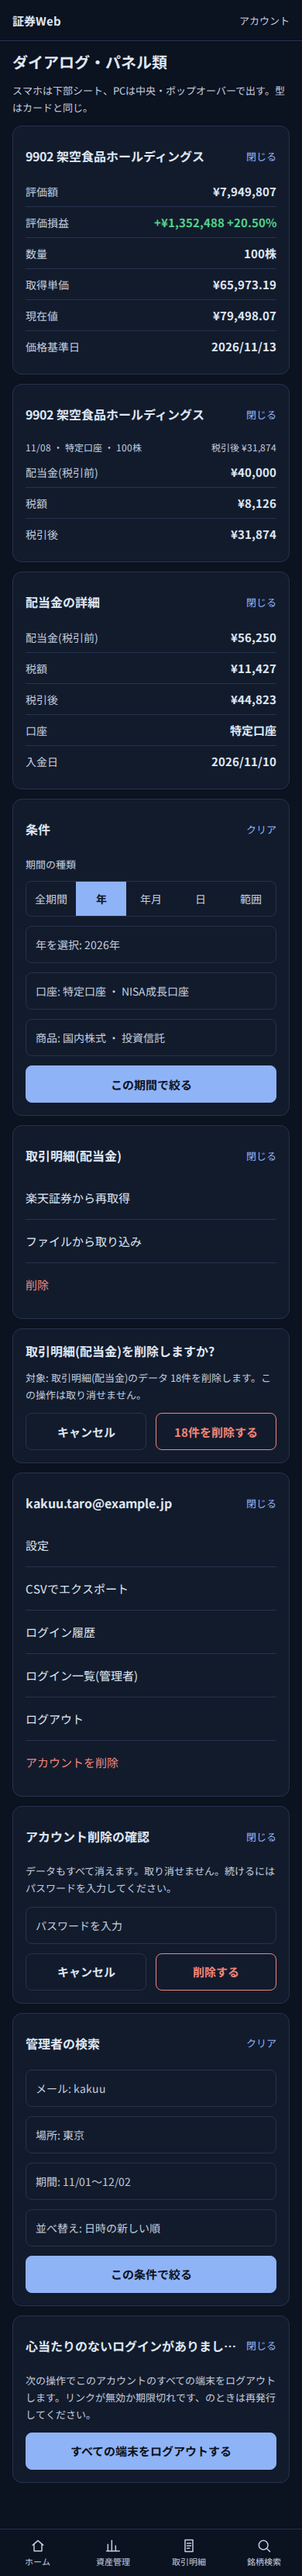
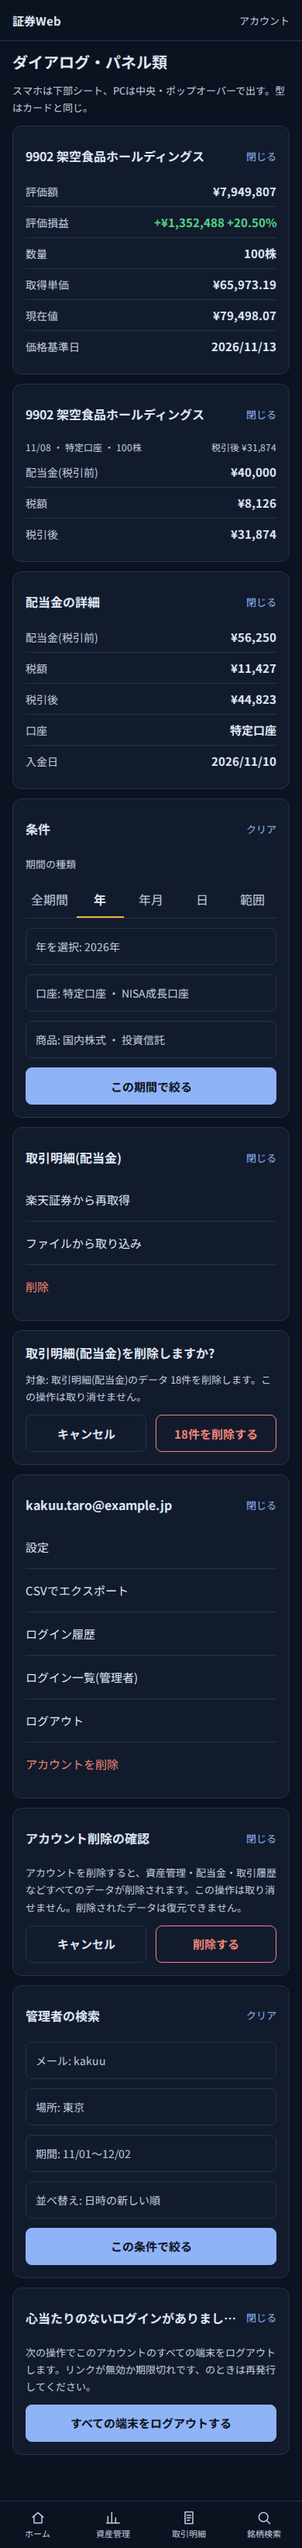
design: rest担当の指摘5件を修正(戻り削除・塗り廃止・札廃止・削除確認現行合わせ・OSダーク確認) Refs #1890

diff --git a/docs/design/work/phase9-screens/rest/settings-pc.html b/docs/design/work/phase9-screens/rest/settings-pc.html
@@ -137,8 +137,14 @@ table.grid .sb{font-size:12px; color:var(--mut); white-space:nowrap}
     <div class="col">
 <section class="card" aria-label="設定セクション">
     <div class="hrow"><h2>設定セクション</h2></div>
-    <div class="toc">
-      <span class="chip">アカウント</span><span class="chip">表示</span><span class="chip">データ</span><span class="chip">セキュリティ</span><span class="chip">登録した端末</span><span class="chip">ログイン履歴</span><span class="chip">危険な操作</span>
+    <div class="rows">
+      <div class="row"><div class="left"><div class="name" style="color:var(--accent)">アカウント</div></div></div>
+      <div class="row"><div class="left"><div class="name" style="color:var(--accent)">表示</div></div></div>
+      <div class="row"><div class="left"><div class="name" style="color:var(--accent)">データ</div></div></div>
+      <div class="row"><div class="left"><div class="name" style="color:var(--accent)">セキュリティ</div></div></div>
+      <div class="row"><div class="left"><div class="name" style="color:var(--accent)">登録した端末</div></div></div>
+      <div class="row"><div class="left"><div class="name" style="color:var(--accent)">ログイン履歴</div></div></div>
+      <div class="row"><div class="left"><div class="name" style="color:var(--accent)">危険な操作</div></div></div>
     </div>
   </section>
     </div>
@@ -157,7 +163,6 @@ table.grid .sb{font-size:12px; color:var(--mut); white-space:nowrap}
       <div class="dl"><dt>取引明細の初期タブ</dt><dd>配当金</dd></div>
       <div class="dl"><dt>金額の表示単位</dt><dd>円</dd></div>
     </dl>
-    <div class="seg" role="group" aria-label="テーマ"><span class="here">端末に合わせる</span><span>ライト</span><span>ダーク</span></div>
   </section>
 <section class="card" aria-label="データ">
     <div class="hrow"><h2>データ</h2></div>
@@ -190,9 +195,9 @@ table.grid .sb{font-size:12px; color:var(--mut); white-space:nowrap}
 <section class="card" aria-label="ログイン履歴">
     <div class="hrow"><h2>ログイン履歴</h2><span class="more">もっと見る ›</span></div>
     <div class="rows">
-      <div class="row"><div class="left"><div class="name">kakuu.taro@example.jp</div><span class="sub num">12/02 09:12 ・ 東京 ・ 成功</span></div><span class="amt"><span class="badge ok">成功</span></span></div>
-      <div class="row"><div class="left"><div class="name">kakuu.taro@example.jp</div><span class="sub num">11/28 18:04 ・ 大阪 ・ 新しい端末</span></div><span class="amt"><span class="badge">新しい端末</span></span></div>
-      <div class="row"><div class="left"><div class="name">kakuu.taro@example.jp</div><span class="sub num">11/10 07:55 ・ 東京 ・ 失敗</span></div><span class="amt"><span class="badge ng">失敗</span></span></div>
+      <div class="row"><div class="left"><div class="name">kakuu.taro@example.jp</div><span class="sub num">12/02 09:12 ・ 東京 ・ 成功</span></div></div>
+      <div class="row"><div class="left"><div class="name">kakuu.taro@example.jp</div><span class="sub num">11/28 18:04 ・ 大阪 ・ 新しい端末</span></div></div>
+      <div class="row"><div class="left"><div class="name">kakuu.taro@example.jp</div><span class="sub num">11/10 07:55 ・ 東京 ・ <span style="color:var(--down)">失敗</span></span></div></div>
     </div>
     <div class="statenote-wrap">Cookie を消すと同じ端末でも新しい端末として登録されます</div>
   </section>

diff --git a/docs/design/work/phase9-screens/rest/settings-mobile.html b/docs/design/work/phase9-screens/rest/settings-mobile.html
@@ -121,8 +121,14 @@ table.grid{width:100%}
   <h1 class="pagetitle" style="margin-top:12px">設定</h1>
 <section class="card" aria-label="設定セクション">
     <div class="hrow"><h2>設定セクション</h2></div>
-    <div class="toc">
-      <span class="chip">アカウント</span><span class="chip">表示</span><span class="chip">データ</span><span class="chip">セキュリティ</span><span class="chip">登録した端末</span><span class="chip">ログイン履歴</span><span class="chip">危険な操作</span>
+    <div class="rows">
+      <div class="row"><div class="left"><div class="name" style="color:var(--accent)">アカウント</div></div></div>
+      <div class="row"><div class="left"><div class="name" style="color:var(--accent)">表示</div></div></div>
+      <div class="row"><div class="left"><div class="name" style="color:var(--accent)">データ</div></div></div>
+      <div class="row"><div class="left"><div class="name" style="color:var(--accent)">セキュリティ</div></div></div>
+      <div class="row"><div class="left"><div class="name" style="color:var(--accent)">登録した端末</div></div></div>
+      <div class="row"><div class="left"><div class="name" style="color:var(--accent)">ログイン履歴</div></div></div>
+      <div class="row"><div class="left"><div class="name" style="color:var(--accent)">危険な操作</div></div></div>
     </div>
   </section>
   <section class="card" aria-label="アカウント">
@@ -139,7 +145,6 @@ table.grid{width:100%}
       <div class="dl"><dt>取引明細の初期タブ</dt><dd>配当金</dd></div>
       <div class="dl"><dt>金額の表示単位</dt><dd>円</dd></div>
     </dl>
-    <div class="seg" role="group" aria-label="テーマ"><span class="here">端末に合わせる</span><span>ライト</span><span>ダーク</span></div>
   </section>
   <section class="card" aria-label="データ">
     <div class="hrow"><h2>データ</h2></div>
@@ -168,9 +173,9 @@ table.grid{width:100%}
   <section class="card" aria-label="ログイン履歴">
     <div class="hrow"><h2>ログイン履歴</h2><span class="more">もっと見る ›</span></div>
     <div class="rows">
-      <div class="row"><div class="left"><div class="name">kakuu.taro@example.jp</div><span class="sub num">12/02 09:12 ・ 東京 ・ 成功</span></div><span class="amt"><span class="badge ok">成功</span></span></div>
-      <div class="row"><div class="left"><div class="name">kakuu.taro@example.jp</div><span class="sub num">11/28 18:04 ・ 大阪 ・ 新しい端末</span></div><span class="amt"><span class="badge">新しい端末</span></span></div>
-      <div class="row"><div class="left"><div class="name">kakuu.taro@example.jp</div><span class="sub num">11/10 07:55 ・ 東京 ・ 失敗</span></div><span class="amt"><span class="badge ng">失敗</span></span></div>
+      <div class="row"><div class="left"><div class="name">kakuu.taro@example.jp</div><span class="sub num">12/02 09:12 ・ 東京 ・ 成功</span></div></div>
+      <div class="row"><div class="left"><div class="name">kakuu.taro@example.jp</div><span class="sub num">11/28 18:04 ・ 大阪 ・ 新しい端末</span></div></div>
+      <div class="row"><div class="left"><div class="name">kakuu.taro@example.jp</div><span class="sub num">11/10 07:55 ・ 東京 ・ <span style="color:var(--down)">失敗</span></span></div></div>
     </div>
     <div class="statenote-wrap">Cookie を消すと同じ端末でも新しい端末として登録されます</div>
   </section>

diff --git a/docs/design/work/phase9-screens/rest/dialogs-mobile.html b/docs/design/work/phase9-screens/rest/dialogs-mobile.html
@@ -153,7 +153,7 @@ table.grid{width:100%}
   <section class="card" aria-label="検索・条件追加パネル">
     <div class="hrow"><h2>条件</h2><span class="more">クリア</span></div>
     <p class="subhead">期間の種類</p>
-    <div class="seg" role="group" aria-label="期間"><span>全期間</span><span class="here">年</span><span>年月</span><span>日</span><span>範囲</span></div>
+    <div class="tabs" role="group" aria-label="期間"><span>全期間</span><span class="here">年</span><span>年月</span><span>日</span><span>範囲</span></div>
     <div class="field">年を選択: 2026年</div>
     <div class="field">口座: 特定口座 ・ NISA成長口座</div>
     <div class="field">商品: 国内株式 ・ 投資信託</div>
@@ -188,8 +188,7 @@ table.grid{width:100%}
   </section>
   <section class="card" aria-label="アカウント削除確認">
     <div class="hrow"><h2>アカウント削除の確認</h2><span class="more">閉じる</span></div>
-    <p class="statenote-wrap">データもすべて消えます。取り消せません。続けるにはパスワードを入力してください。</p>
-    <div class="field">パスワードを入力</div>
+    <p class="statenote-wrap">アカウントを削除すると、資産管理・配当金・取引履歴などすべてのデータが削除されます。この操作は取り消せません。削除されたデータは復元できません。</p>
     <div style="display:flex; gap:12px; margin-top:12px">
       <div class="btn" style="flex:1">キャンセル</div>
       <div class="btn danger" style="flex:1">削除する</div>
@@ -199,13 +198,12 @@ table.grid{width:100%}
     <div class="hrow"><h2>管理者の検索</h2><span class="more">クリア</span></div>
     <div class="field">メール: kakuu</div>
     <div class="field">場所: 東京</div>
-    <div class="field">期間: 11/01〜12/02</div>
     <div class="field">並べ替え: 日時の新しい順</div>
     <div class="btn primary" style="margin-top:12px">この条件で絞る</div>
   </section>
   <section class="card" aria-label="通知リンクのログアウト確認">
     <div class="hrow"><h2>心当たりのないログインがありましたか</h2><span class="more">閉じる</span></div>
-    <p class="statenote-wrap">次の操作でこのアカウントのすべての端末をログアウトします。リンクが無効か期限切れです、のときは再発行してください。</p>
+    <p class="statenote-wrap">次の操作でこのアカウントのすべての端末をログアウトします。</p>
     <div class="btn primary" style="margin-top:12px">すべての端末をログアウトする</div>
   </section><nav class="bottomnav" aria-label="下ナビ">
   <a href="#"><svg width="20" height="20" viewBox="0 0 24 24" fill="none" stroke="currentColor" stroke-width="1.8" stroke-linecap="round" stroke-linejoin="round"><path d="M4 11l8-7 8 7"/><path d="M6 10v10h12V10"/></svg>ホーム</a>

diff --git a/docs/design/work/phase9-screens/rest/dialogs-pc.html b/docs/design/work/phase9-screens/rest/dialogs-pc.html
@@ -169,7 +169,7 @@ table.grid .sb{font-size:12px; color:var(--mut); white-space:nowrap}
 <section class="card" aria-label="検索・条件追加パネル">
     <div class="hrow"><h2>条件</h2><span class="more">クリア</span></div>
     <p class="subhead">期間の種類</p>
-    <div class="seg" role="group" aria-label="期間"><span>全期間</span><span class="here">年</span><span>年月</span><span>日</span><span>範囲</span></div>
+    <div class="tabs" role="group" aria-label="期間"><span>全期間</span><span class="here">年</span><span>年月</span><span>日</span><span>範囲</span></div>
     <div class="field">年を選択: 2026年</div>
     <div class="field">口座: 特定口座 ・ NISA成長口座</div>
     <div class="field">商品: 国内株式 ・ 投資信託</div>
@@ -206,8 +206,7 @@ table.grid .sb{font-size:12px; color:var(--mut); white-space:nowrap}
   </section>
 <section class="card" aria-label="アカウント削除確認">
     <div class="hrow"><h2>アカウント削除の確認</h2><span class="more">閉じる</span></div>
-    <p class="statenote-wrap">データもすべて消えます。取り消せません。続けるにはパスワードを入力してください。</p>
-    <div class="field">パスワードを入力</div>
+    <p class="statenote-wrap">アカウントを削除すると、資産管理・配当金・取引履歴などすべてのデータが削除されます。この操作は取り消せません。削除されたデータは復元できません。</p>
     <div style="display:flex; gap:12px; margin-top:12px">
       <div class="btn" style="flex:1">キャンセル</div>
       <div class="btn danger" style="flex:1">削除する</div>
@@ -217,13 +216,12 @@ table.grid .sb{font-size:12px; color:var(--mut); white-space:nowrap}
     <div class="hrow"><h2>管理者の検索</h2><span class="more">クリア</span></div>
     <div class="field">メール: kakuu</div>
     <div class="field">場所: 東京</div>
-    <div class="field">期間: 11/01〜12/02</div>
     <div class="field">並べ替え: 日時の新しい順</div>
     <div class="btn primary" style="margin-top:12px">この条件で絞る</div>
   </section>
 <section class="card" aria-label="通知リンクのログアウト確認">
     <div class="hrow"><h2>心当たりのないログインがありましたか</h2><span class="more">閉じる</span></div>
-    <p class="statenote-wrap">次の操作でこのアカウントのすべての端末をログアウトします。リンクが無効か期限切れです、のときは再発行してください。</p>
+    <p class="statenote-wrap">次の操作でこのアカウントのすべての端末をログアウトします。</p>
     <div class="btn primary" style="margin-top:12px">すべての端末をログアウトする</div>
   </section>
     </div>

diff --git a/docs/design/work/phase9-screens/rest/search-mobile.html b/docs/design/work/phase9-screens/rest/search-mobile.html
@@ -118,8 +118,7 @@ table.grid{width:100%}
 </div></header>
 <div class="wrap">
 
-  <a class="backlink" href="#">‹ 資産管理に戻る</a>
-  <h1 class="pagetitle">銘柄検索</h1>
+  <h1 class="pagetitle" style="margin-top:12px">銘柄検索</h1>
 <div class="search"><span aria-hidden="true">⌕</span><span class="ph">銘柄コードまたは銘柄名で検索</span></div>
   <div class="btn primary" style="margin-top:8px">銘柄を検索</div>
   <section class="card" aria-label="保有情報">

diff --git a/docs/design/work/phase9-screens/rest/admin-logins-pc.html b/docs/design/work/phase9-screens/rest/admin-logins-pc.html
@@ -150,7 +150,6 @@ table.grid .sb{font-size:12px; color:var(--mut); white-space:nowrap}
         <div class="hrow"><h2>条件</h2><span class="more">クリア</span></div>
         <div class="field">メール: kakuu</div>
         <div class="field">場所: 東京</div>
-        <div class="field">期間: 11/01〜12/02</div>
         <div class="field">並べ替え: 日時の新しい順</div>
         <div class="btn primary" style="margin-top:12px">この条件で絞る</div>
       </section>

diff --git a/docs/design/work/phase9-screens/rest/search-pc.html b/docs/design/work/phase9-screens/rest/search-pc.html
@@ -132,8 +132,7 @@ table.grid .sb{font-size:12px; color:var(--mut); white-space:nowrap}
 </div></header>
 <div class="wrap">
 
-  <a class="backlink" href="#">‹ 資産管理に戻る</a>
-  <h1 class="pagetitle">銘柄検索</h1>
+  <h1 class="pagetitle" style="margin-top:12px">銘柄検索</h1>
   <div class="grid2" style="margin-top:12px">
     <div class="col">
       <section class="card" aria-label="検索">

diff --git a/docs/design/work/phase9-screens/rest/README.md b/docs/design/work/phase9-screens/rest/README.md
@@ -19,15 +19,15 @@
 
 銘柄検索3点:
 
-1. 検索欄をカード化し、実行ボタンを「銘柄を検索」1つにした(スマホ・PC共通の部品)。結果は保有情報→銘柄詳細→外部リンクの順に積んだ。
+1. 検索欄をカード化し、実行ボタンを「銘柄を検索」1つにした(スマホ・PC共通の部品)。結果は保有情報→銘柄詳細→外部リンクの順に積んだ。「資産管理に戻る」の戻りは主画面の見本からは外し、現行どおり保有ありで資産管理の行から来たときだけ出す。
 2. 保有タイルの羅列をやめ、左=項目名(灰)・右=値(太字)の定義行カードにした。口座別はホームと同じ行の型にした。
 3. 外部リンク11件(現行の11件をすべて残す)を同じボタンの見た目にし、スマホ2列・PC4列にした。
 
 設定3点:
 
-1. 7セクションをホームと同じ白カードにし、スマホは縦積み+目次のチップ、PCは左目次+2列にした。赤枠・赤背景は使わず、危険操作の「削除…」だけ赤文字にした。
-2. テーマ・自動ログアウトを全画面共通の segmented(選択肢)部品にし、値は定義行(左=項目名・右=値)で出した。
-3. 端末・履歴は行の型(左=名前+補足、右=操作・バッジ)にし、バッジは成功=緑・失敗=赤・それ以外=灰の線だけにした。
+1. 7セクションをホームと同じ白カードにし、スマホは行の型の目次+縦積み、PCは左目次+2列にした。目次は色札(チップ)をやめ青文字のリンクの並びにした。赤枠・赤背景は使わず、危険操作の「削除…」だけ赤文字にした。
+2. テーマ・自動ログアウトは塗りの切り替えをやめ、他の行と同じ定義行(左=項目名・右=値)にした。面を紺で塗るのは主ボタンだけにした。
+3. 端末・履歴は行の型(左=名前+補足、右=操作)にし、結果の札はやめて2段目の文字にした(失敗だけ赤文字)。
 
 ログイン・未ログイン時のホーム・404(3点):
 
@@ -43,9 +43,9 @@
 
 ダイアログ・パネル類3点:
 
-1. 9種+通知リンクの確認をすべて同じカード型(見出し+右に「閉じる/クリア」→定義行・行・ボタン)にした。スマホ=下部シート・PC=中央・ポップオーバー・右パネルの出し分けは注記にした。
+1. 9種+通知リンクの確認をすべて同じカード型(見出し+右に「閉じる/クリア」→定義行・行・ボタン)にした。期間の種類は塗りの切り替えをやめ下線のタブにした。スマホ=下部シート・PC=中央・ポップオーバー・右パネルの出し分けは注記にした。
 2. 削除確認は対象・件数・「この操作は取り消せません」を明示し、実行ボタンに件数(18件を削除する)を載せた。
-3. アカウントメニューは現行の6項目(設定・データをエクスポート・ログイン履歴・管理者・ログアウト・アカウントを削除)をすべて残し、行の型にした。
+3. アカウントメニューは現行の6項目(設定・データをエクスポート・ログイン履歴・管理者・ログアウト・アカウントを削除)をすべて残し、行の型にした。アカウント削除の確認は現行の `AccountDeleteDialog`(パスワード入力なし: 見出し+説明+取消不能の注意+キャンセル/削除する)に合わせた。
 
 ## 自己点検表(×: 0)
 
@@ -91,4 +91,5 @@ PC:
 - `admin-logins-mobile.html` / `admin-logins-pc.html`、 shots 4枚
 - `dialogs-mobile.html` / `dialogs-pc.html`、 shots 4枚
 - (全28枚、改行崩れ・重なり・はみ出し・文字サイズ・ダークのコントラストを目視済み)
+- `shots/os-check/`: `?theme` なし・OSライト/ダークでの確認用6枚(search-mobile・settings-pc・dialogs-pc)。主ボタン等の文字が読めることを目視済み
 - `tools/gen.py`(生成)、`tools/shoot.py`(撮影)
